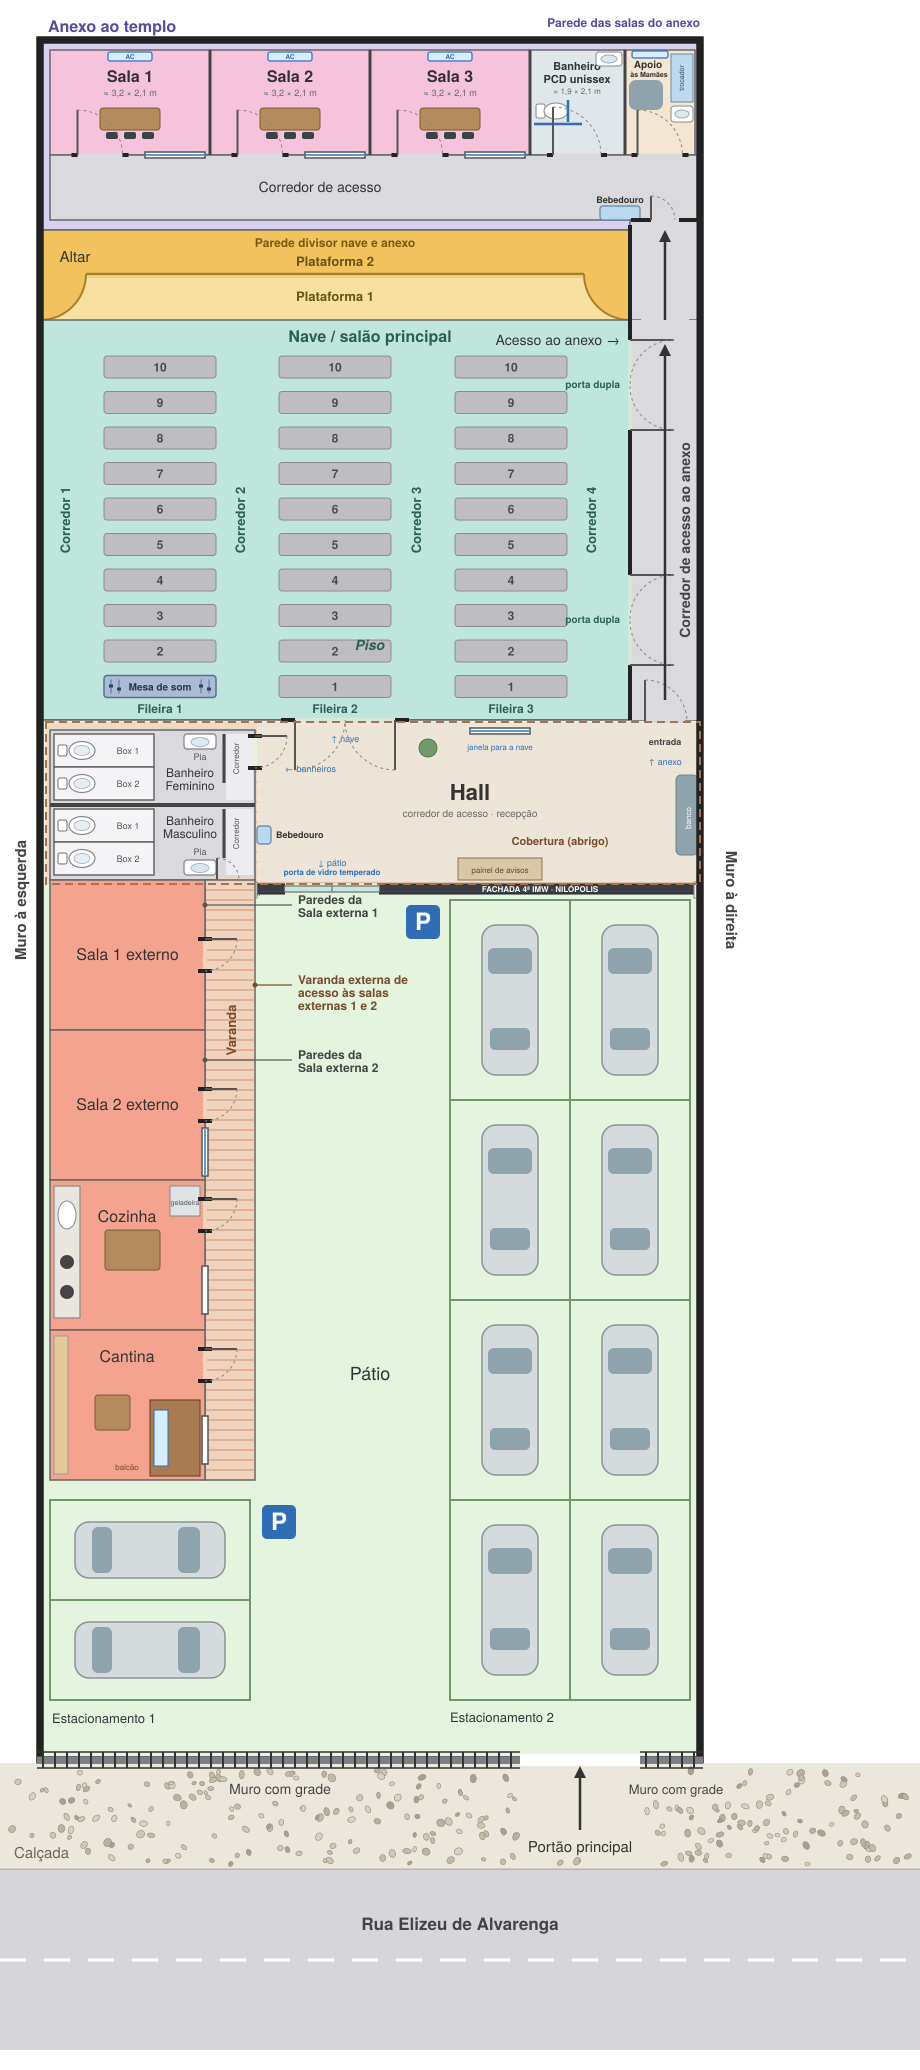
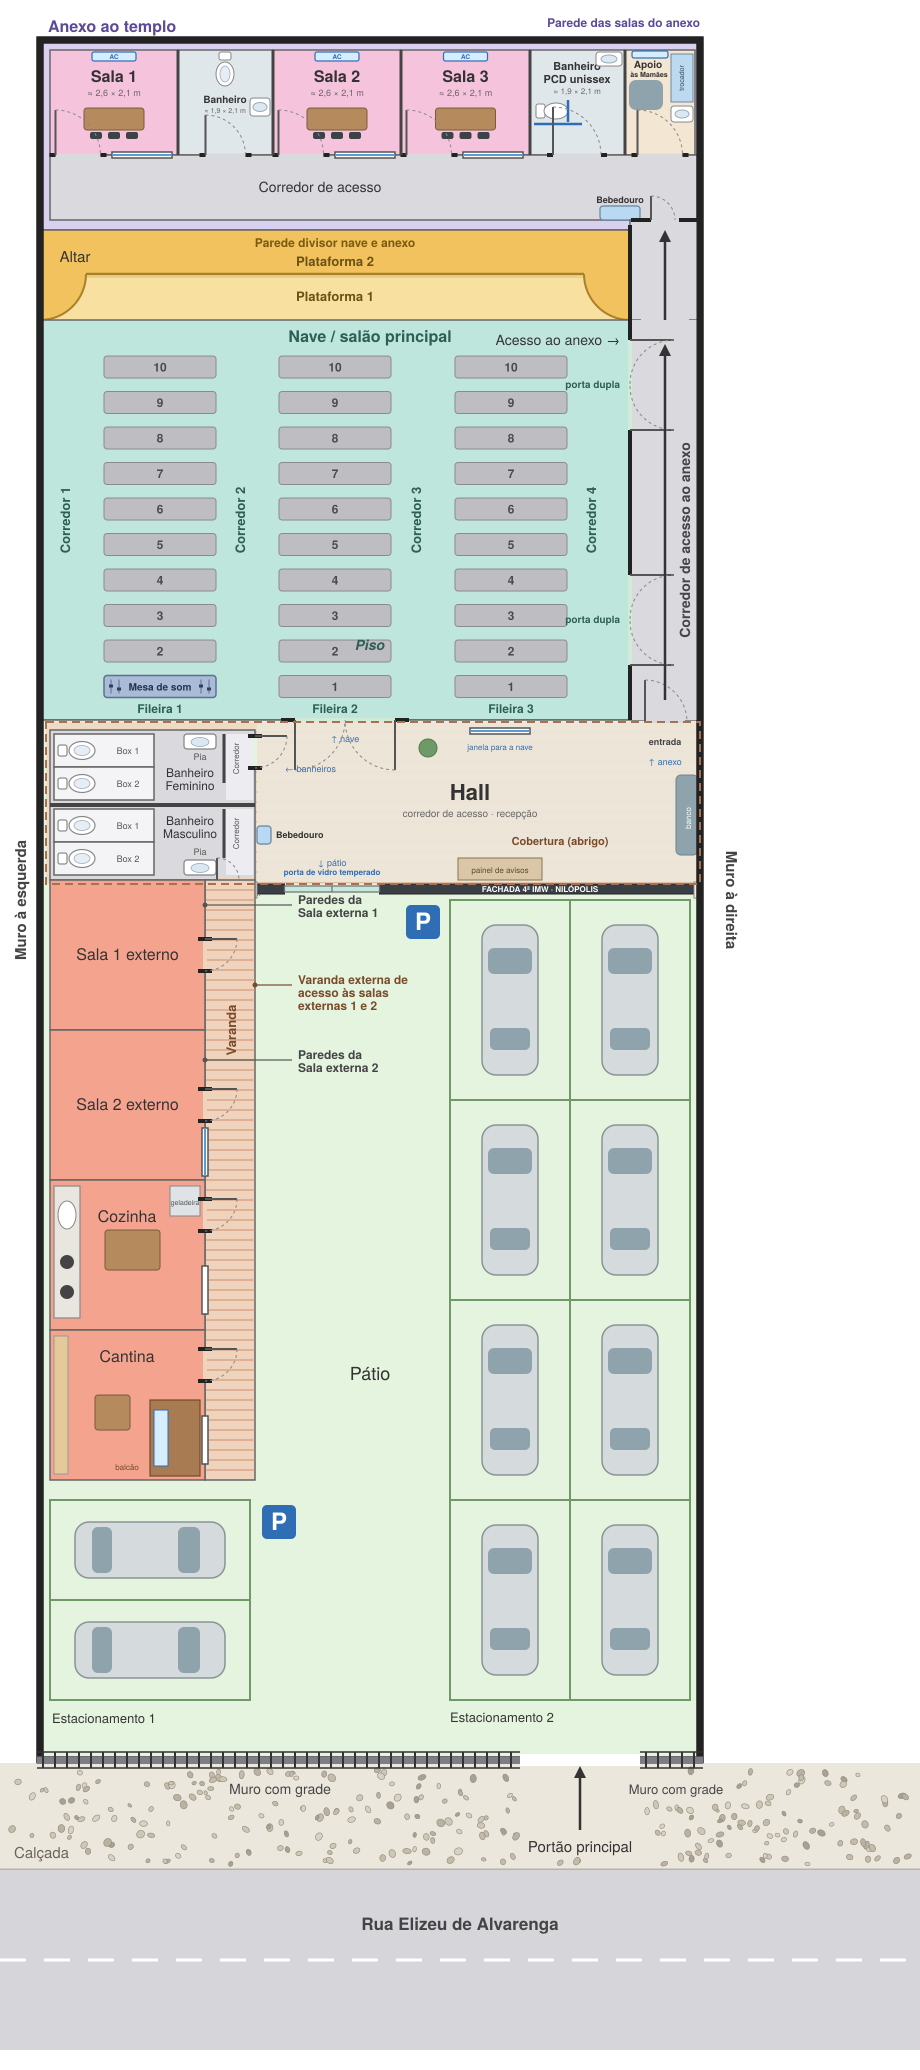
Projeto 2: banheiro no anexo entre Sala 1 e Sala 2; ambientes do anexo reajustados
Claude-Session: https://claude.ai/code/session_015gh4tS64wXyJ2ghbw66cFX

Changed region(s): [[0.0913, 0.0, 0.5478, 0.0928]]

diff --git a/projeto2/maquete.html b/projeto2/maquete.html
@@ -249,7 +249,8 @@
     rect(40, 720, 700, 1760, 0, 0.05, 0, { cast: false, material: new THREE.MeshStandardMaterial({ map: tx, roughness: 0.9 }) });   // pátio
   })();
   rect(40, 40, 700, 230, 0, 0.06, C.anexo, { cast: false });                 // bloco do anexo
-  [[50,210],[210,370],[370,530]].forEach(function(r){ rect(r[0], 50, r[1], 155, 0.06, 0.04, C.salaAnexo, { cast: false }); });   // PROJETO 2: 3 salas
+  [[50,178],[273,401],[401,530]].forEach(function(r){ rect(r[0], 50, r[1], 155, 0.06, 0.04, C.salaAnexo, { cast: false }); });
+  rect(178, 50, 273, 155, 0.06, 0.04, 0xdfe7ea, { cast: false });            // PROJETO 2: banheiro do anexo (entre Sala 1 e Sala 2)   // PROJETO 2: 3 salas
   rect(530, 50, 625, 155, 0.06, 0.04, 0xdfe7ea, { cast: false });            // PROJETO 2: banheiro PCD unissex
   rect(625, 50, 695, 155, 0.06, 0.04, 0xe8d9c0, { cast: false });            // PROJETO 2: Sala de Apoio às Mamães (piso amadeirado claro)
   rect(50, 155, 700, 220, 0.06, 0.04, C.corr, { cast: false });              // corredor do anexo
@@ -406,21 +407,25 @@
 
   // ---------- Anexo (paredes das salas com altura padrão de 3 m) ----------
   // PROJETO 2: anexo reorganizado (3 salas + banheiro PCD unissex + Sala de Apoio) com corredor y155..220 e bebedouro
-  [210, 370, 530, 625].forEach(function(px){ vwall(px, 50, 155, BH); });
+  [178, 273, 401, 530, 625].forEach(function(px){ vwall(px, 50, 155, BH); });
   vwall(695, 50, 155, BH);
-  hwall(155, 50, 695, BH, [door(100), win(175), door(260), win(335), door(420), win(495), { a: 553, b: 601, lh: 2.1 }, door(660)]);
+  hwall(155, 50, 695, BH, [door(78), win(142), { a: 205.5, b: 245.5, lh: 2.1 }, door(301), win(365), door(429), win(493), { a: 553, b: 601, lh: 2.1 }, door(660)]);
   doorLeaf(true, 225, 665, 0.86, 2.08, 0.2);                                // porta de madeira de acesso ao anexo
-  [100, 260, 420, 660].forEach(function(c){ doorLeaf(true, 155, c); });      // portas de madeira: Salas 1-3 e Sala de Apoio
+  [78, 301, 429, 660].forEach(function(c){ doorLeaf(true, 155, c); });
+  doorLeaf(true, 155, 225.5, 0.8, 2.08, 0.16);                              // porta do banheiro do anexo      // portas de madeira: Salas 1-3 e Sala de Apoio
   doorLeaf(true, 155, 577, 0.9, 2.08, 0.16);                                // porta do banheiro PCD
-  [175, 335, 495].forEach(function(c){ winFrame(true, 155, c); });           // janelas das 3 salas
+  [142, 365, 493].forEach(function(c){ winFrame(true, 155, c); });           // janelas das 3 salas
   (function(){
     function acBox(x, y, z){ box(0.95, 0.28, 0.2, 0xf4f4f2, x, y, z); box(0.8, 0.025, 0.02, 0x9aa0a6, x, y - 0.09, z + 0.105, null, { cast: false }); }
-    [130, 290, 450].forEach(function(cx){
+    [114, 337, 465.5].forEach(function(cx){
       acBox(X(cx), 2.45, Z(40) + 0.11 + 0.1);                                                   // split na parede do fundo
       box(1.3, 0.05, 0.55, 0xb58a5c, X(cx), 0.76, Z(115)); [-0.55, 0.55].forEach(function(o){ box(0.05, 0.72, 0.5, 0xdad7d0, X(cx) + o, 0.4, Z(115)); });
       [-0.4, 0, 0.4].forEach(function(o){ box(0.4, 0.04, 0.4, 0x3d4249, X(cx) + o, 0.45, Z(135)); box(0.4, 0.38, 0.04, 0x3d4249, X(cx) + o, 0.66, Z(135) + 0.19); box(0.06, 0.43, 0.06, 0x8a8f94, X(cx) + o, 0.22, Z(135)); });
       box(1.5, 0.85, 0.04, 0x16191c, X(cx), 1.5, Z(40) + 0.11 + 0.02);                          // tela
     });
+    // banheiro do anexo (x178..273, y50..155): vaso com caixa acoplada e pia
+    box(0.26, 0.7, 0.16, C.white, X(225), 0.6, Z(56)); var wc2 = new THREE.Mesh(new THREE.CylinderGeometry(0.18, 0.14, 0.4, 18), mat(C.white, { roughness: 0.4 })); wc2.scale.set(0.85, 1, 1.25); wc2.position.set(X(225), 0.2, Z(72)); wc2.castShadow = true; root.add(wc2);
+    box(0.4, 0.85, 0.36, C.white, X(260), 0.425, Z(107)); box(0.32, 0.03, 0.26, 0xbcd5e8, X(260), 0.865, Z(107), null, { cast: false });
     // banheiro PCD unissex (x530..625, y50..155): vaso, pia, barras de apoio, espelho
     box(0.18, 0.75, 0.22, C.white, X(536), 0.375, Z(111)); var wb = new THREE.Mesh(new THREE.CylinderGeometry(0.22, 0.17, 0.4, 18), mat(C.white, { roughness: 0.4 })); wb.scale.set(1, 1, 0.72); wb.position.set(X(556), 0.2, Z(111)); wb.castShadow = true; root.add(wb);
     box(0.04, 0.04, 0.8, 0xc9ced3, X(534), 0.85, Z(125)); box(0.04, 0.04, 0.8, 0xc9ced3, X(582), 0.85, Z(100)); box(0.8, 0.04, 0.04, 0xc9ced3, X(560), 0.85, Z(76));
@@ -899,12 +904,12 @@
     lampRound(110, 805); lampRound(200, 805); [310, 400, 490, 580, 665].forEach(function(px){ lampRound(px, 768); lampRound(px, 845); });
     // salas do anexo e cozinha: laje emboçada branca lisa + luzes
     var lajeMat = new THREE.MeshStandardMaterial({ color: 0xffffff, roughness: 1, emissive: 0x8c8c88 });
-    [[50, 210], [210, 370], [370, 530], [530, 625], [625, 695]].forEach(function(r){
+    [[50, 178], [178, 273], [273, 401], [401, 530], [530, 625], [625, 695]].forEach(function(r){
       var cx = (r[0] + r[1]) / 2;
       box((r[1] - r[0]) * S, 0.08, 105 * S, 0, X(cx), BH - 0.04, Z(102.5), forroGroup, { material: lajeMat, cast: false });
       lampRound(cx, 100);
     });
-    isopor(50, 155, 700, 220); [130, 290, 450, 580, 660].forEach(function(px){ lampRound(px, 188); });   // corredor do anexo
+    isopor(50, 155, 700, 220); [114, 225, 337, 465, 580, 660].forEach(function(px){ lampRound(px, 188); });   // corredor do anexo
   })();
 
   // ---------- Árvores ----------
@@ -931,7 +936,7 @@
     labelGroup.add(sp);
   }
   label('Anexo ao templo', 370, 100, 6.4, 4.0);
-  label('Sala 1', 130, 100, 4.0, 1.7); label('Sala 2', 290, 100, 4.0, 1.7); label('Sala 3', 450, 100, 4.0, 1.7); label('Banheiro PCD', 577, 100, 4.0, 2.0); label('Apoio às Mamães', 660, 100, 4.0, 1.9); label('Bebedouro (anexo)', 620, 190, 4.0, 1.9);
+  label('Sala 1', 114, 100, 4.0, 1.7); label('Banheiro (anexo)', 225.5, 100, 4.0, 1.9); label('Sala 2', 337, 100, 4.0, 1.7); label('Sala 3', 465.5, 100, 4.0, 1.7); label('Banheiro PCD', 577, 100, 4.0, 2.0); label('Apoio às Mamães', 660, 100, 4.0, 1.9); label('Bebedouro (anexo)', 620, 190, 4.0, 1.9);
   label('Altar', 160, 250, 2.6, 1.5); label('Plataforma 2', 335, 252, 2.3, 2.6); label('Plataforma 1', 335, 297, 1.6, 2.6);
   label('Bateria', 560, 255, 3.1, 1.5); label('Teclado', 110, 258, 3.0, 1.5); label('Guitarra', 262, 255, 3.0, 1.5); label('Baixo', 292, 255, 3.4, 1.3); label('Microfones', 375, 262, 3.0, 2.0);
   label('Piso da nave', 370, 560, 1.4, 2.6);
@@ -985,10 +990,11 @@
     { id: 'cozinhae', name: 'Cozinha', g: 'Salas externas', pos: [-3.5, 1.65, 5.8], tgt: [-6.2, 1.1, 7.8], roof: true, labels: false, fp: true },
     { id: 'cantinae', name: 'Cantina', g: 'Salas externas', pos: [-3.5, 1.65, 8.9], tgt: [-6.2, 1.1, 10.7], roof: true, labels: false, fp: true },
     { id: 'anexocorr', name: 'Corredor do anexo (leste-oeste)', g: 'Anexo', pos: [-5.8, 1.65, -14.24], tgt: [6.4, 1.5, -14.24], roof: true, labels: false, fp: true },
-    { id: 'sala1a', name: 'Sala 1 (anexo)', g: 'Anexo', pos: [-3.5, 1.65, -15.04], tgt: [-6.2, 1.3, -16.5], roof: true, labels: false, fp: true },
-    { id: 'sala2a', name: 'Sala 2 (anexo)', g: 'Anexo', pos: [-0.3, 1.65, -15.04], tgt: [-2.9, 1.3, -16.5], roof: true, labels: false, fp: true },
+    { id: 'sala1a', name: 'Sala 1 (anexo)', g: 'Anexo', pos: [-4.4, 1.65, -15.04], tgt: [-6.2, 1.3, -16.5], roof: true, labels: false, fp: true },
+    { id: 'wcanexo', name: 'Banheiro (anexo)', g: 'Anexo', pos: [-2.2, 1.65, -15.04], tgt: [-3.6, 1.1, -16.6], roof: true, labels: false, fp: true },
+    { id: 'sala2a', name: 'Sala 2 (anexo)', g: 'Anexo', pos: [0.2, 1.65, -15.04], tgt: [-1.9, 1.3, -16.5], roof: true, labels: false, fp: true },
     { id: 'apoiofp', name: 'Sala de Apoio às Mamães (anexo)', g: 'Anexo', pos: [5.85, 1.65, -15.06], tgt: [5.8, 1.15, -17.0], roof: true, labels: false, fp: true },
-    { id: 'sala3a', name: 'Sala 3 (anexo)', g: 'Anexo', pos: [2.9, 1.65, -15.04], tgt: [0.3, 1.3, -16.5], roof: true, labels: false, fp: true },
+    { id: 'sala3a', name: 'Sala 3 (anexo)', g: 'Anexo', pos: [2.8, 1.65, -15.04], tgt: [0.9, 1.3, -16.5], roof: true, labels: false, fp: true },
     { id: 'pcd', name: 'Banheiro PCD (anexo)', g: 'Anexo', pos: [4.6, 1.65, -15.04], tgt: [3.5, 1.2, -16.8], roof: true, labels: false, fp: true }
   ];
   var bar = document.getElementById('views');

diff --git a/index.html b/index.html
@@ -97,7 +97,7 @@
   <div class="panel" id="projeto2">
     <section>
       <h2>Projeto 2 — Maquete 3D</h2>
-      <p class="sub">Baseado na igreja atual: Fileira 4 eliminada e corredor de acesso ao anexo com 2 portas para a nave; fileiras e corredores reorganizados; Cozinha e Cantina na parte externa; banheiros iguais aos da igreja atual, Hall como corredor grande aberto (sem paredes) ligando banheiros, nave, anexo e pátio, com bebedouro junto aos banheiros; anexo com 3 salas, banheiro PCD, Sala de Apoio às Mamães (menor) e bebedouro. Fachada moderna com logo e nome da igreja, do muro até a parede, com porta de vidro temperado; banheiros com acessos independentes. Dica: use as vistas <b>Fachada</b>, <b>Hall e banheiros</b>, <b>Salas do anexo</b>, <b>Cozinha e Cantina</b> e <b>Corredor (anexo)</b>.</p>
+      <p class="sub">Baseado na igreja atual: Fileira 4 eliminada e corredor de acesso ao anexo com 2 portas para a nave; fileiras e corredores reorganizados; Cozinha e Cantina na parte externa; banheiros iguais aos da igreja atual, Hall como corredor grande aberto (sem paredes) ligando banheiros, nave, anexo e pátio, com bebedouro junto aos banheiros; anexo com Sala 1, Banheiro, Sala 2, Sala 3 (salas de ≈ 2,6 × 2,1 m), banheiro PCD, Sala de Apoio às Mamães (menor) e bebedouro. Fachada moderna com logo e nome da igreja, do muro até a parede, com porta de vidro temperado; banheiros com acessos independentes. Dica: use as vistas <b>Fachada</b>, <b>Hall e banheiros</b>, <b>Salas do anexo</b>, <b>Cozinha e Cantina</b> e <b>Corredor (anexo)</b>.</p>
       <iframe class="frame" data-src="projeto2/maquete.html" title="Maquete 3D do Projeto 2" allowfullscreen></iframe>
       <div class="btns"><a class="btn" href="projeto2/maquete.html" target="_blank" rel="noopener">Abrir em tela cheia</a></div>
     </section>
